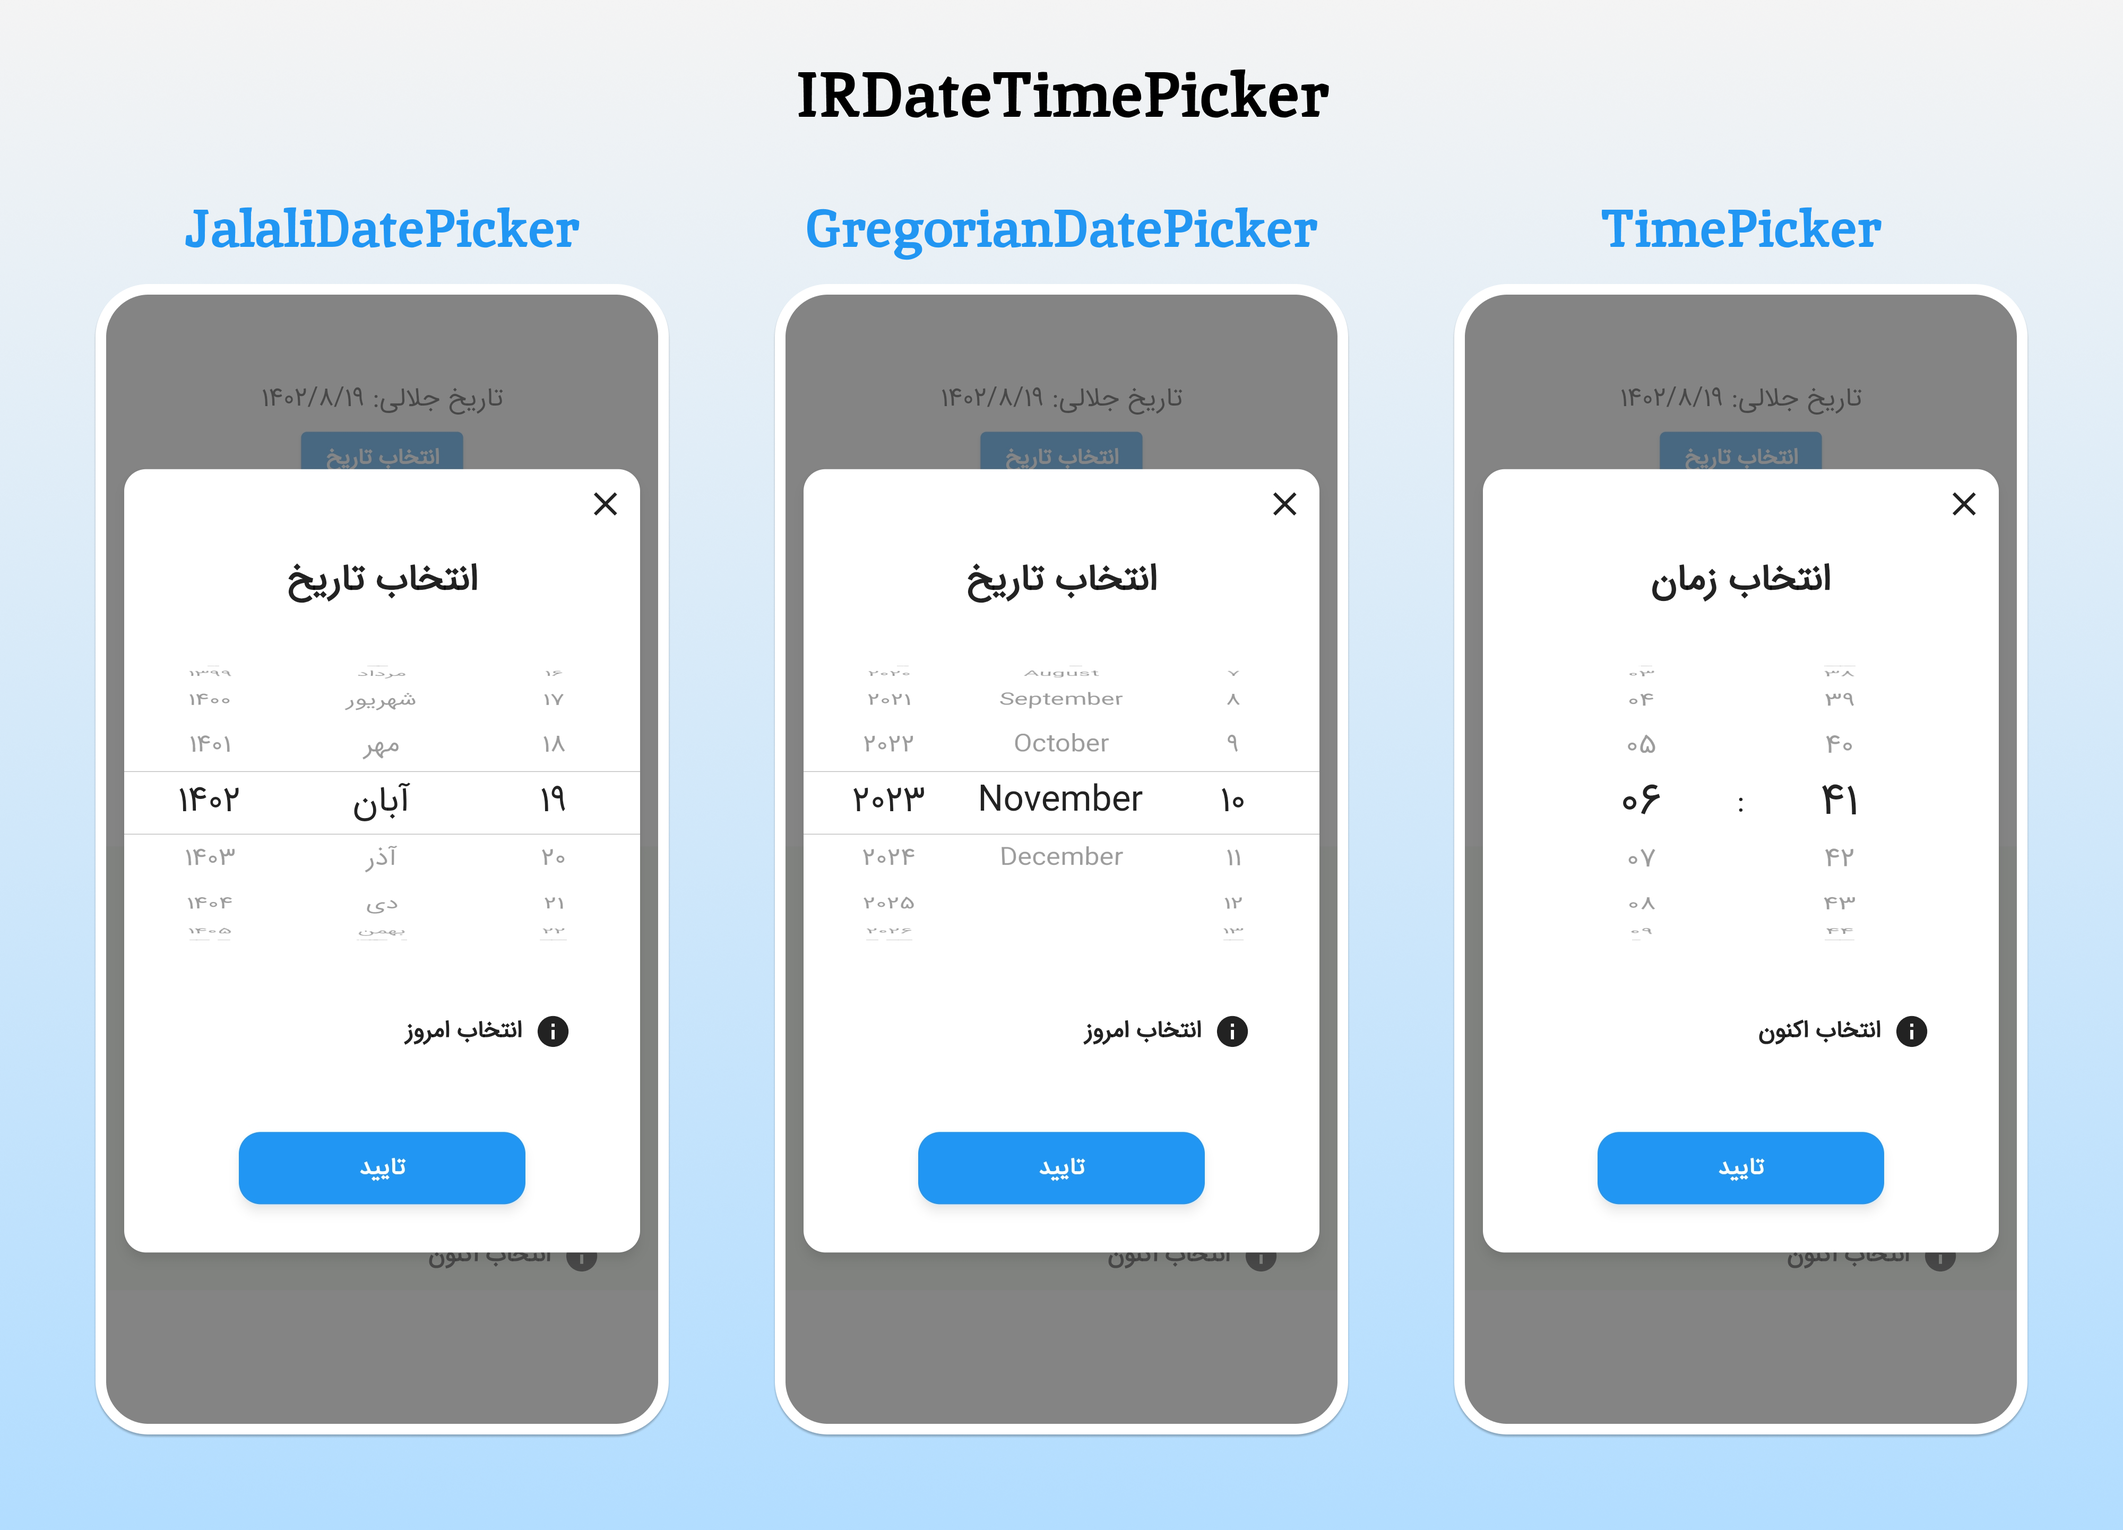
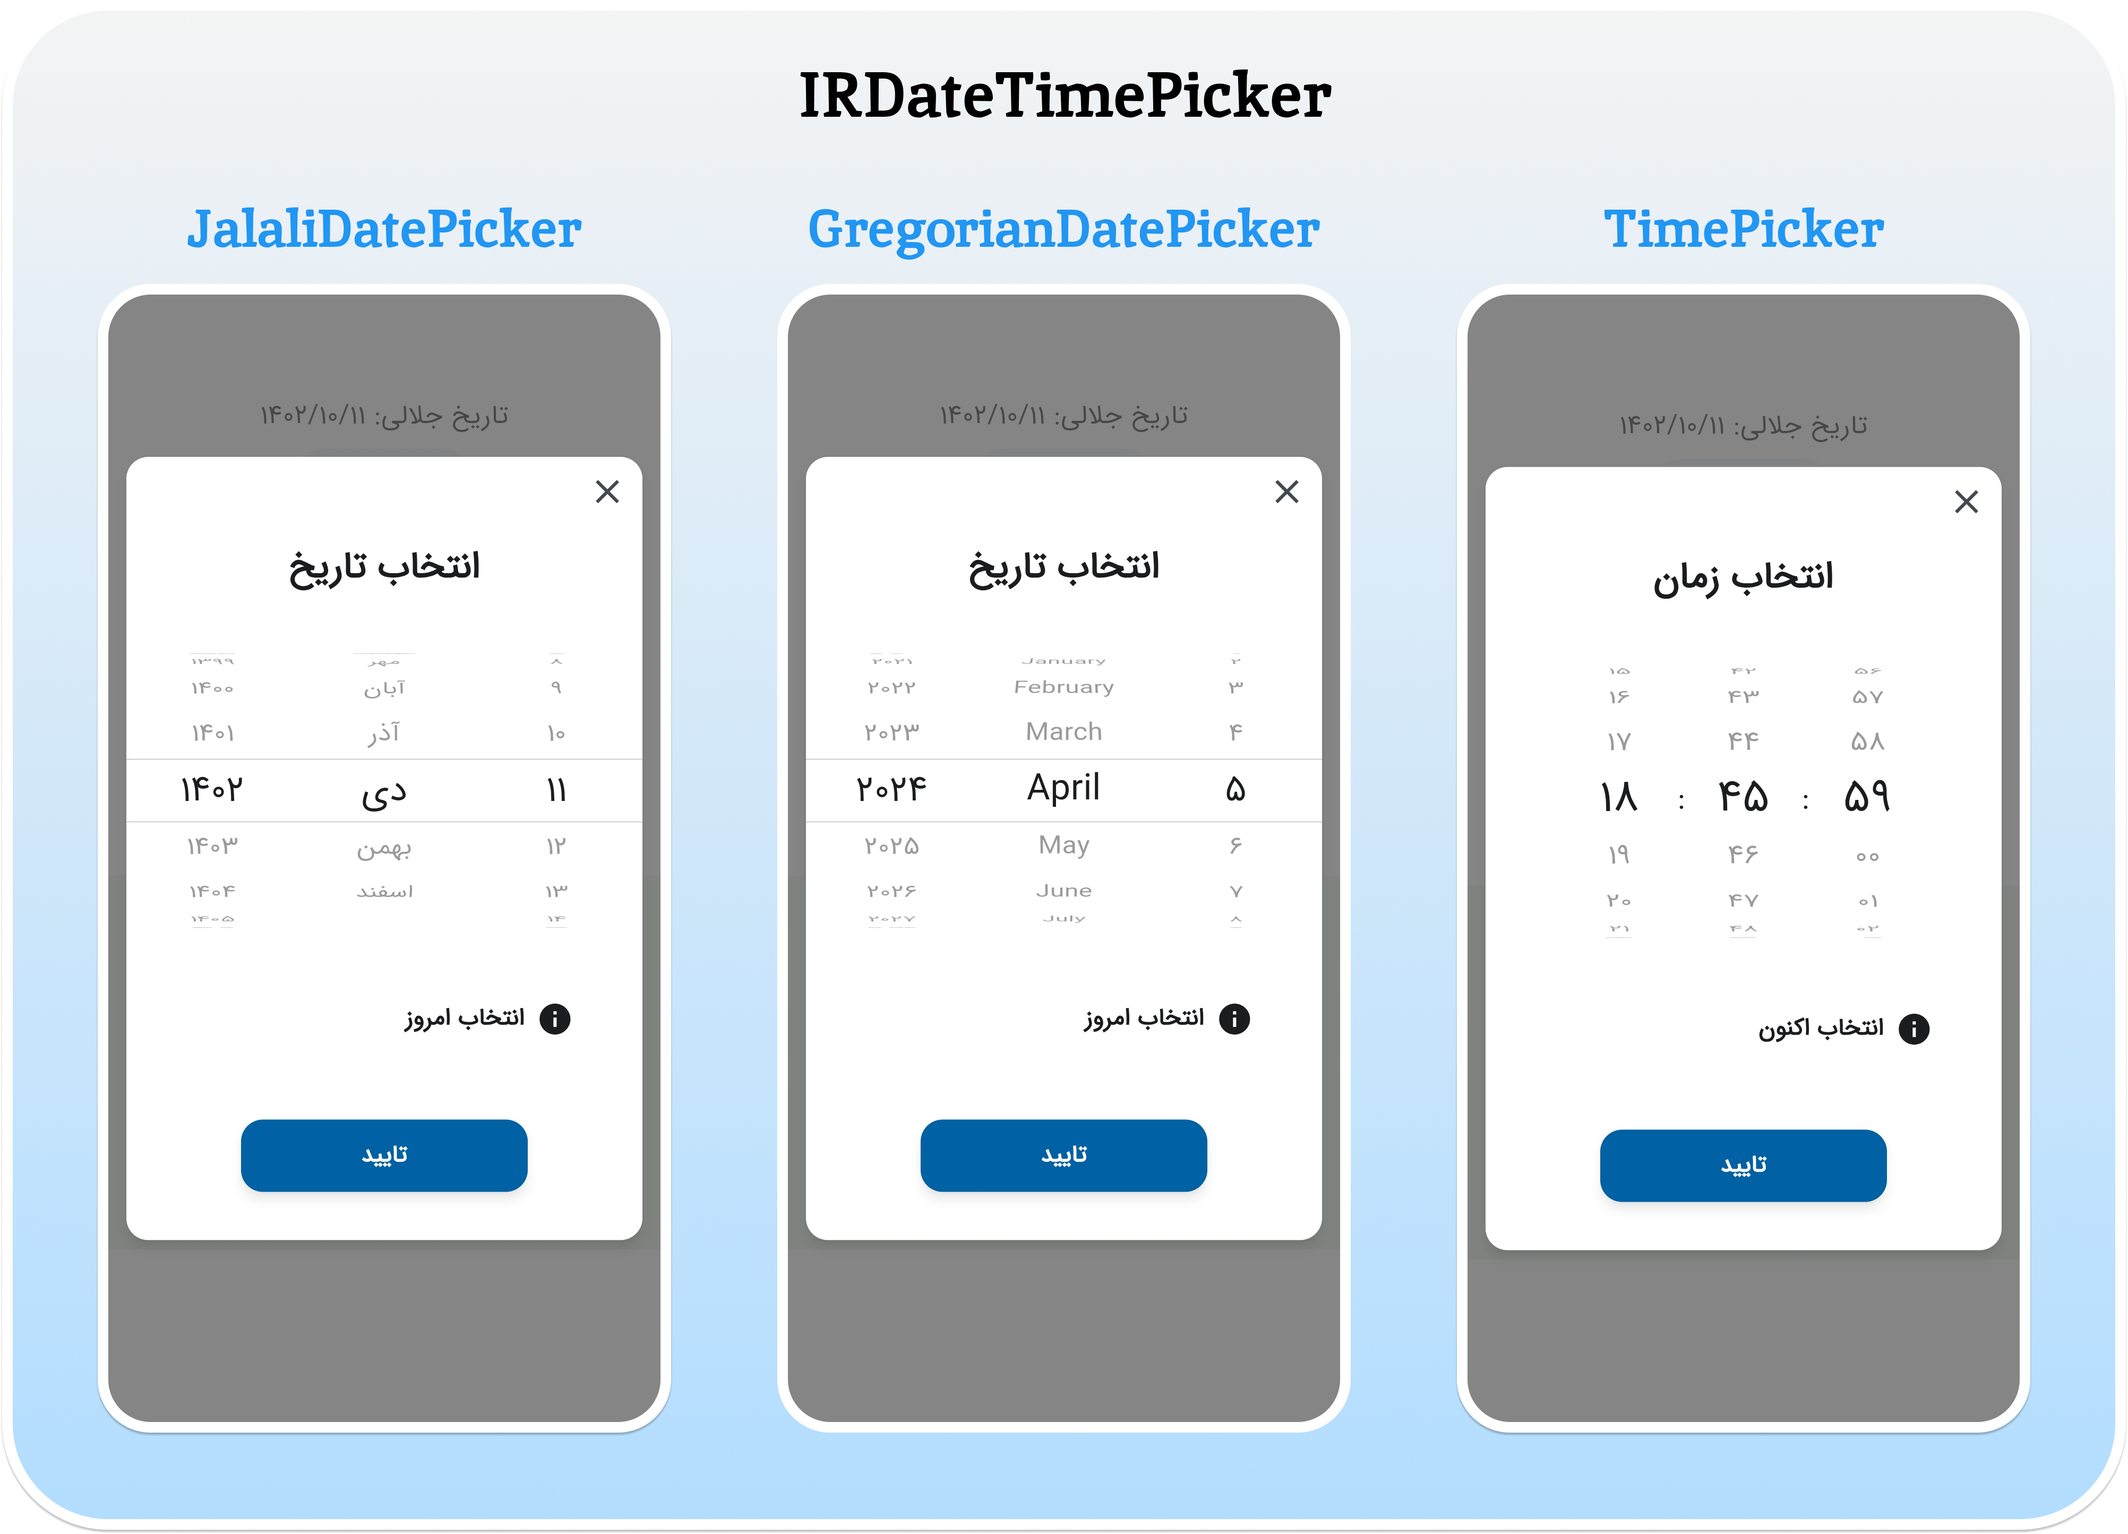
Add seconds picker to IRDateTimePicker & Update IRTimeModel & Make some optimization

diff --git a/lib/src/ir_time_picker/core/ir_time_picker.dart b/lib/src/ir_time_picker/core/ir_time_picker.dart
@@ -44,21 +44,29 @@ class _IRTimePickerState extends State<IRTimePicker> {
   late bool _refreshCupertinoPickers;
   late List<String> _hours;
   late List<String> _minutes;
+  late List<String> _seconds;
   late int _selectedHour;
   late int _selectedMinute;
+  late int _selectedSecond;
 
   @override
   void initState() {
     super.initState();
     _refreshCupertinoPickers = false;
-    _selectedHour = widget.initialTime?.hour ?? DateTime.now().hour;
-    _selectedMinute = widget.initialTime?.minute ?? DateTime.now().minute;
+    DateTime now = DateTime.now();
+    _selectedHour = widget.initialTime?.hour ?? now.hour;
+    _selectedMinute = widget.initialTime?.minute ?? now.minute;
+    _selectedSecond = widget.initialTime?.second ?? now.second;
+    _hours = List.generate(
+      24,
+      (index) => index.toString().padLeft(2, "0"),
+    );
     _minutes = List.generate(
       60,
       (index) => index.toString().padLeft(2, "0"),
     );
-    _hours = List.generate(
-      24,
+    _seconds = List.generate(
+      60,
       (index) => index.toString().padLeft(2, "0"),
     );
   }
@@ -81,26 +89,29 @@ class _IRTimePickerState extends State<IRTimePicker> {
             _cupertinoPicker(
               context: context,
               list: _hours,
-              initialItem:
-                  _hours.indexOf(_selectedHour.toString().padLeft(2, "0")),
+              initialItem: _hours.indexOf(_selectedHour.toString().padLeft(2, "0")),
               onSelectedItemChanged: (selectedIndex) {
                 _selectedHour = int.parse(_hours[selectedIndex]);
                 widget.onSelected(_getSelectedIRtime());
               },
             ),
-            Text(" : ",
-                style: widget.textStyle ??
-                    Theme.of(context)
-                        .textTheme
-                        .titleMedium
-                        ?.copyWith(fontSize: 18.0.responsiveFont(context))),
+            Text(" : ", style: widget.textStyle ?? Theme.of(context).textTheme.titleMedium?.copyWith(fontSize: 18.0.responsiveFont(context))),
             _cupertinoPicker(
               context: context,
               list: _minutes,
-              initialItem:
-                  _minutes.indexOf(_selectedMinute.toString().padLeft(2, "0")),
+              initialItem: _minutes.indexOf(_selectedMinute.toString().padLeft(2, "0")),
               onSelectedItemChanged: (selectedIndex) {
                 _selectedMinute = int.parse(_minutes[selectedIndex]);
+                widget.onSelected(_getSelectedIRtime());
+              },
+            ),
+            Text(" : ", style: widget.textStyle ?? Theme.of(context).textTheme.titleMedium?.copyWith(fontSize: 18.0.responsiveFont(context))),
+            _cupertinoPicker(
+              context: context,
+              list: _seconds,
+              initialItem: _seconds.indexOf(_selectedSecond.toString().padLeft(2, "0")),
+              onSelectedItemChanged: (selectedIndex) {
+                _selectedSecond = int.parse(_seconds[selectedIndex]);
                 widget.onSelected(_getSelectedIRtime());
               },
             ),
@@ -113,33 +124,25 @@ class _IRTimePickerState extends State<IRTimePicker> {
       children: [
         SizedBox(height: 1.0.percentOfHeight(context)),
         Padding(
-          padding:
-              EdgeInsets.symmetric(horizontal: 10.0.percentOfWidth(context)),
+          padding: EdgeInsets.symmetric(horizontal: 10.0.percentOfWidth(context)),
           child: Row(
             mainAxisAlignment: MainAxisAlignment.start,
             mainAxisSize: MainAxisSize.max,
             children: [
               TextButton.icon(
-                icon: Icon(Icons.info,
-                    size: 6.5.percentOfWidth(context),
-                    color: widget.textStyle?.color ??
-                        Theme.of(context).textTheme.titleMedium?.color),
+                icon: Icon(Icons.info, size: 6.5.percentOfWidth(context), color: widget.textStyle?.color ?? Theme.of(context).textTheme.titleMedium?.color),
                 style: TextButton.styleFrom(
                   padding: EdgeInsets.all(2.0.percentOfWidth(context)),
-                  shape: RoundedRectangleBorder(
-                      borderRadius: BorderRadius.circular(12.0)),
+                  shape: RoundedRectangleBorder(borderRadius: BorderRadius.circular(12.0)),
                 ),
-                label: Text(widget.nowButtonText,
-                    style: (widget.textStyle ??
-                            Theme.of(context).textTheme.titleMedium)
-                        ?.copyWith(
-                            fontSize: 14.responsiveFont(context),
-                            fontWeight: FontWeight.w600)),
+                label: Text(widget.nowButtonText, style: (widget.textStyle ?? Theme.of(context).textTheme.titleMedium)?.copyWith(fontSize: 14.responsiveFont(context), fontWeight: FontWeight.w600)),
                 onPressed: () {
                   setState(() {
                     _refreshCupertinoPickers = true;
-                    _selectedMinute = DateTime.now().minute;
-                    _selectedHour = DateTime.now().hour;
+                    DateTime now = DateTime.now();
+                    _selectedHour = now.hour;
+                    _selectedMinute = now.minute;
+                    _selectedSecond = now.second;
                   });
                   widget.onSelected(_getSelectedIRtime());
                 },
@@ -161,14 +164,10 @@ class _IRTimePickerState extends State<IRTimePicker> {
     );
   }
 
-  Widget _cupertinoPicker(
-      {required BuildContext context,
-      required List list,
-      required int initialItem,
-      required ValueChanged<int> onSelectedItemChanged}) {
+  Widget _cupertinoPicker({required BuildContext context, required List list, required int initialItem, required ValueChanged<int> onSelectedItemChanged}) {
     mPrint(initialItem);
     BoxConstraints cupertinoPickerConstraints = BoxConstraints.loose(
-      Size(30.0.percentOfWidth(context), double.infinity),
+      Size(17.0.percentOfWidth(context), double.infinity),
     );
     return ConstrainedBox(
       constraints: cupertinoPickerConstraints,
@@ -191,8 +190,7 @@ class _IRTimePickerState extends State<IRTimePicker> {
                 element.toString(),
                 style: Theme.of(context).textTheme.titleMedium?.copyWith(
                       color: widget.textStyle?.color,
-                      fontSize: widget.textStyle?.fontSize ??
-                          18.0.responsiveFont(context),
+                      fontSize: widget.textStyle?.fontSize ?? 18.0.responsiveFont(context),
                       fontWeight: widget.textStyle?.fontWeight,
                     ),
               ),
@@ -204,6 +202,6 @@ class _IRTimePickerState extends State<IRTimePicker> {
   }
 
   IRTimeModel _getSelectedIRtime() {
-    return IRTimeModel(hour: _selectedHour, minute: _selectedMinute);
+    return IRTimeModel(hour: _selectedHour, minute: _selectedMinute, second: _selectedSecond);
   }
 }

diff --git a/example/lib/main.dart b/example/lib/main.dart
@@ -13,16 +13,15 @@ class MyApp extends StatelessWidget {
   @override
   Widget build(BuildContext context) {
     return MaterialApp(
-      localizationsDelegates: const [
-        GlobalCupertinoLocalizations.delegate,
-        GlobalMaterialLocalizations.delegate,
-        GlobalWidgetsLocalizations.delegate
-      ],
+      localizationsDelegates: const [GlobalCupertinoLocalizations.delegate, GlobalMaterialLocalizations.delegate, GlobalWidgetsLocalizations.delegate],
       supportedLocales: const [Locale("fa"), Locale("en")],
       locale: const Locale("fa"),
       debugShowCheckedModeBanner: false,
       title: 'Example',
-      theme: ThemeData(fontFamily: "IranSans"),
+      theme: ThemeData(
+        fontFamily: "IranSans",
+        colorScheme: ColorScheme.fromSeed(seedColor: Colors.blue),
+      ),
       home: const HomePage(),
     );
   }
@@ -47,8 +46,7 @@ class _HomePageState extends State<HomePage> {
         child: Column(
           mainAxisSize: MainAxisSize.min,
           children: [
-            Text("تاریخ جلالی: $_jalaliDate",
-                style: const TextStyle(fontSize: 18.0)),
+            Text("تاریخ جلالی: $_jalaliDate", style: const TextStyle(fontSize: 18.0)),
             const SizedBox(height: 5.0),
 
             // Simple jalali date picker using top level functions showIRJalaliDatePickerDialog or showIRJalaliDatePickerRoute:
@@ -66,16 +64,14 @@ class _HomePageState extends State<HomePage> {
                 );
                 if (selectedDate != null) {
                   setState(() {
-                    _jalaliDate =
-                        "${selectedDate.year}/${selectedDate.month}/${selectedDate.day}";
+                    _jalaliDate = "${selectedDate.year}/${selectedDate.month}/${selectedDate.day}";
                   });
                 }
               },
             ),
             const SizedBox(height: 30.0),
 
-            Text("تاریخ میلادی: $_gregorianDate",
-                style: const TextStyle(fontSize: 18.0)),
+            Text("تاریخ میلادی: $_gregorianDate", style: const TextStyle(fontSize: 18.0)),
             const SizedBox(height: 5.0),
 
             // Simple gregorian date picker using top level functions showIRGregorianDatePickerDialog or showIRGregorianDatePickerRoute:
@@ -93,8 +89,7 @@ class _HomePageState extends State<HomePage> {
                 );
                 if (selectedDate != null) {
                   setState(() {
-                    _gregorianDate =
-                        "${selectedDate.year}/${selectedDate.month}/${selectedDate.day}";
+                    _gregorianDate = "${selectedDate.year}/${selectedDate.month}/${selectedDate.day}";
                   });
                 }
               },
@@ -109,17 +104,20 @@ class _HomePageState extends State<HomePage> {
             ElevatedButton(
               child: const Text("انتخاب زمان"),
               onPressed: () async {
-                IRTimeModel? time = await showIRTimePickerDialog(
+                IRTimeModel? selectedTime = await showIRTimePickerDialog(
                   context: context,
-                  initialTime: IRTimeModel(hour: 18, minute: 59),
+                  initialTime: IRTimeModel(hour: 18, minute: 45, second: 59),
                   title: "انتخاب زمان",
                   visibleNowButton: true,
                   nowButtonText: "انتخاب اکنون",
                   confirmButtonText: "تایید",
                 );
-                if (time != null) {
+                if (selectedTime != null) {
                   setState(() {
-                    _time = time.toString();
+                    _time = selectedTime.toString();
+                    Duration durationTime = selectedTime.toDuration();
+                    print('Duration: ${durationTime.toString()}');
+                    print('IRTimeModel: ${IRTimeModel.fromDuration(durationTime).toString()}');
                   });
                 }
               },
@@ -135,8 +133,7 @@ class _HomePageState extends State<HomePage> {
                 maxYear: 1420,
                 visibleTodayButton: true,
                 todayButtonText: "انتخاب اکنون",
-                constraints:
-                    const BoxConstraints.tightFor(width: 400, height: 200),
+                constraints: const BoxConstraints.tightFor(width: 400, height: 200),
                 onSelected: (Jalali date) {
                   if (kDebugMode) {
                     print(date.toString());

diff --git a/lib/src/helpers/time.dart b/lib/src/helpers/time.dart
@@ -1,15 +1,30 @@
-/// [IRTimeModel] use for working with time.
-/// in fact in IRTimePicker when you choose your time you will take a IRTimeModel? object.
+/// [IRTimeModel] used for working with time for example in IRTimePicker when you choose your time you will take an IRTimeModel? object.
+/// use [IRTimeModel.fromDuration] for get [IRTimeModel] from your [Duration] object.
+/// use [toDuration] for convert [IRTimeModel] to [Duration] object.
 class IRTimeModel {
   int hour;
   int minute;
+  int second;
 
-  IRTimeModel({required this.hour, required this.minute})
+  IRTimeModel({required this.hour, required this.minute, this.second = 0})
       : assert(0 <= hour && hour <= 23, "hour is not valid"),
-        assert(0 <= minute && minute <= 59, "minute is not valid");
+        assert(0 <= minute && minute <= 59, "minute is not valid"),
+        assert(0 <= second && second <= 59, "second is not valid");
+
+  factory IRTimeModel.fromDuration(Duration duration) {
+    List<String> splitted = duration.toString().split(":");
+    int hour = int.parse(splitted[0]);
+    int minute = int.parse(splitted[1]);
+    int second = num.parse(splitted[2]).toInt();
+    return IRTimeModel(hour: hour, minute: minute, second: second);
+  }
 
   @override
   String toString() {
-    return "${hour.toString().padLeft(2, "0")}:${minute.toString().padLeft(2, "0")}";
+    return "${hour.toString().padLeft(2, "0")}:${minute.toString().padLeft(2, "0")}:${second.toString().padLeft(2, "0")}";
+  }
+
+  Duration toDuration() {
+    return Duration(hours: hour, minutes: minute, seconds: second);
   }
 }

diff --git a/README.md b/README.md
@@ -82,17 +82,20 @@ ElevatedButton(
 ElevatedButton(
   child: const Text("انتخاب زمان"),
   onPressed: () async {
-    IRTimeModel? time = await showIRTimePickerDialog(
+    IRTimeModel? selectedTime = await showIRTimePickerDialog(
       context: context,
-      initialTime: IRTimeModel(hour: 18, minute: 59),
+      initialTime: IRTimeModel(hour: 18, minute: 45, second: 59),
       title: "انتخاب زمان",
       visibleNowButton: true,
       nowButtonText: "انتخاب اکنون",
       confirmButtonText: "تایید",
     );
-    if (time != null) {
+    if (selectedTime != null) {
       setState(() {
-        _time = time.toString();
+        _time = selectedTime.toString();
+        Duration durationTime = selectedTime.toDuration();
+        print('Duration: ${durationTime.toString()}');
+        print('IRTimeModel: ${IRTimeModel.fromDuration(durationTime).toString()}');
       });
     }
   },

diff --git a/CHANGELOG.md b/CHANGELOG.md
@@ -105,3 +105,9 @@
 
 * Update documents
 * Make some optimizations
+
+## 4.1.0
+
+* Add seconds picker to IRDateTimePicker
+* Update IRTimeModel
+* Make some optimization
